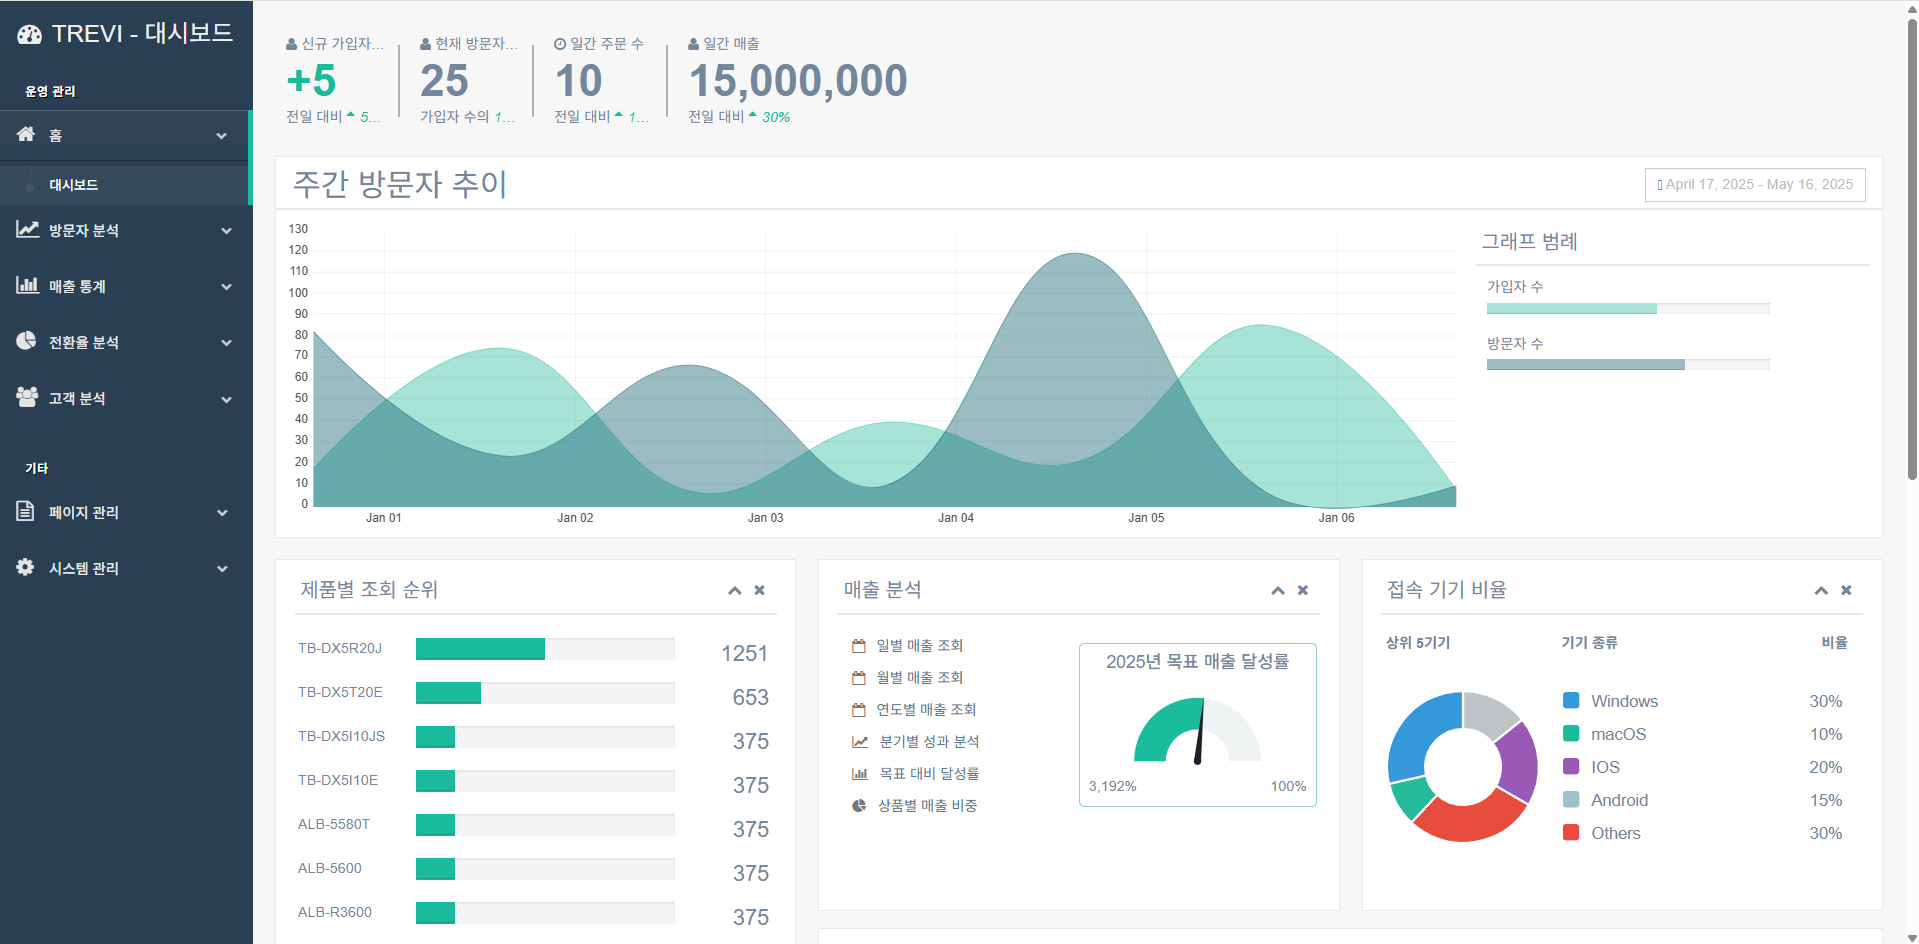
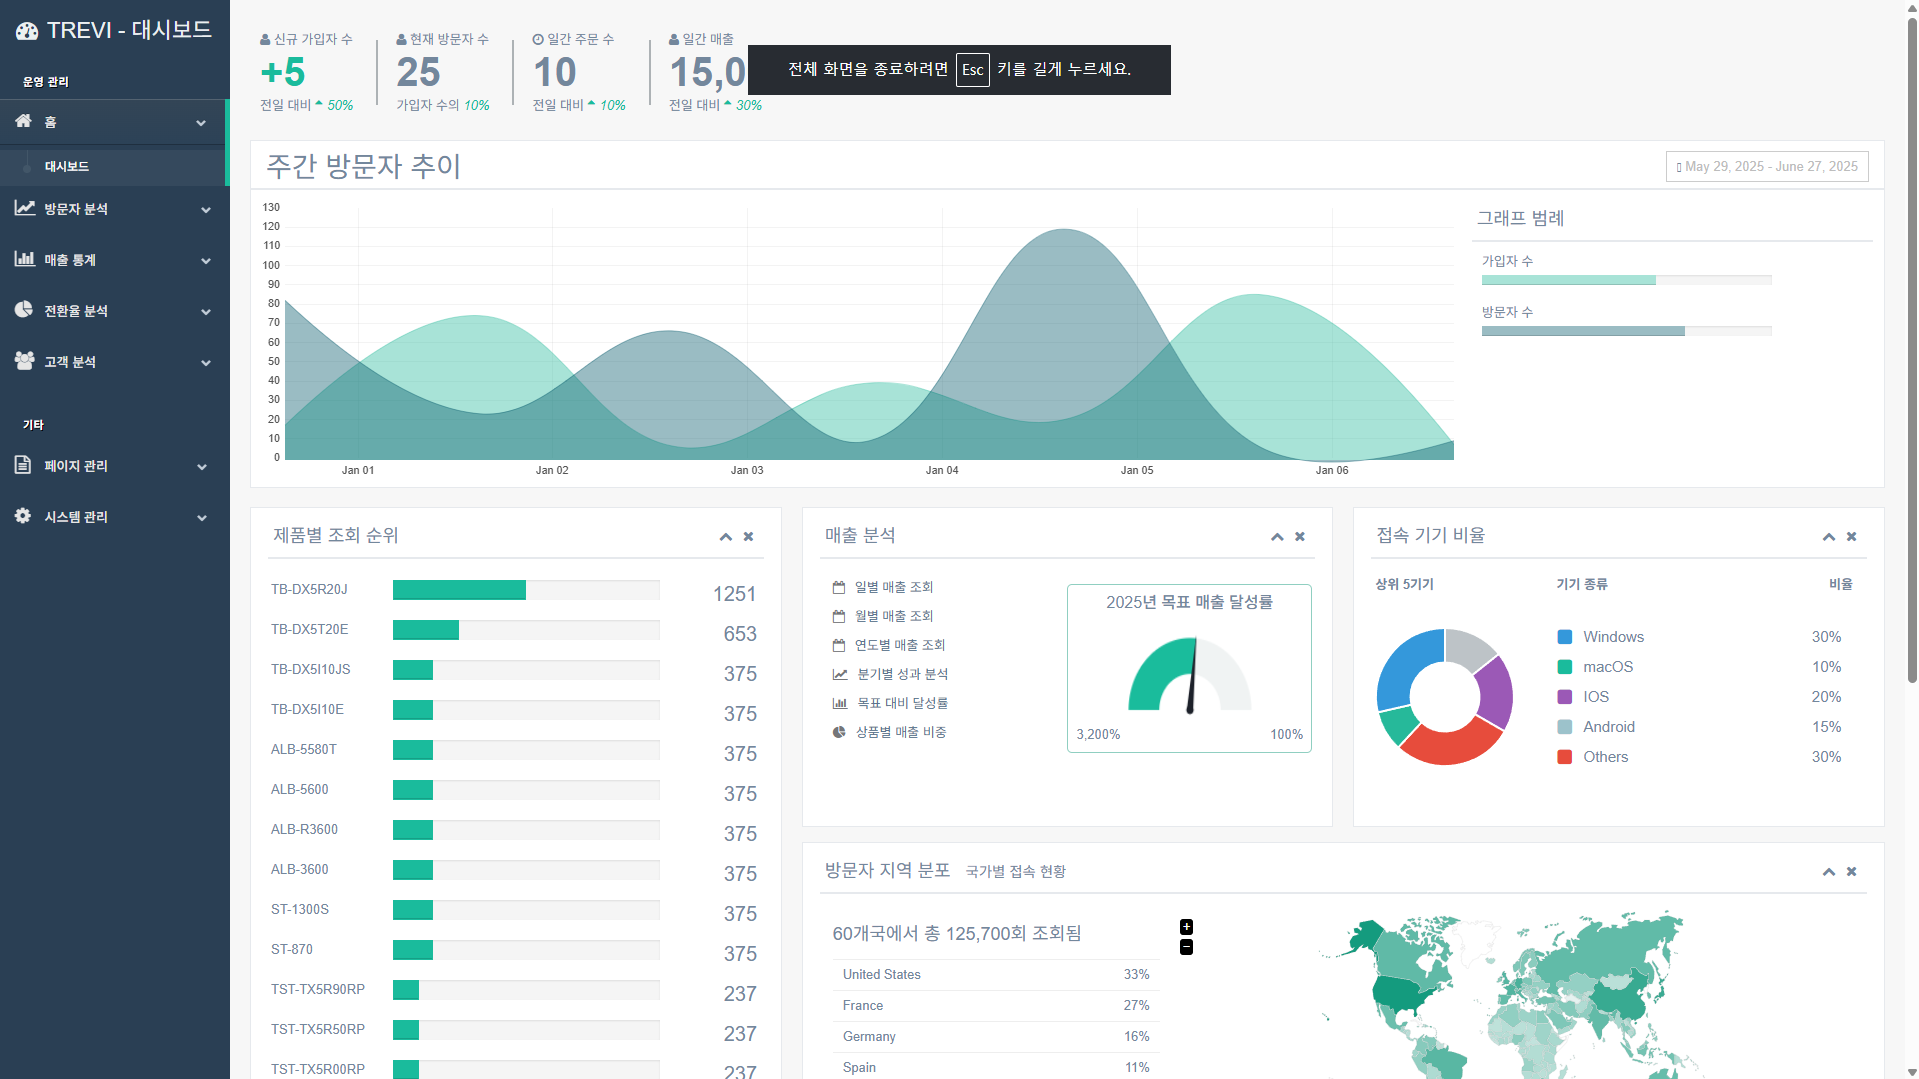
트레비 고객 및 판매 데이터 분석 대시보드 HTML 추가

diff --git a/index.html b/index.html
@@ -565,6 +565,18 @@
               </div>
             </div>
 
+            <div class="col-lg-4 col-md-6 portfolio-item isotope-item filter-erp">
+              <img src="assets/img/dashboard.png" class="img-fluid" alt="">
+              <div class="portfolio-info">
+                <h4>ERP_대시보드</h4>
+                <p>트레비 고객 및 판매 데이터 분석 대시보드 HTML</p>
+                <a href="assets/img/dashboard.png" title="ERP_사양표" data-gallery="portfolio-gallery-product" class="glightbox preview-link"><i class="bi bi-zoom-in"></i></a>
+                <a href="https://g-bak.github.io/TRAVI_dashboard/index.html" title="링크 바로가기" target="_blank" class="details-link">
+                  <i class="bi bi-link-45deg"></i>
+                </a>
+              </div>
+            </div>            
+
             <div class="col-lg-4 col-md-6 portfolio-item isotope-item filter-report">
               <img src="assets/img/portfolio/bar_chart.png" class="img-fluid" alt="">
               <div class="portfolio-info">
